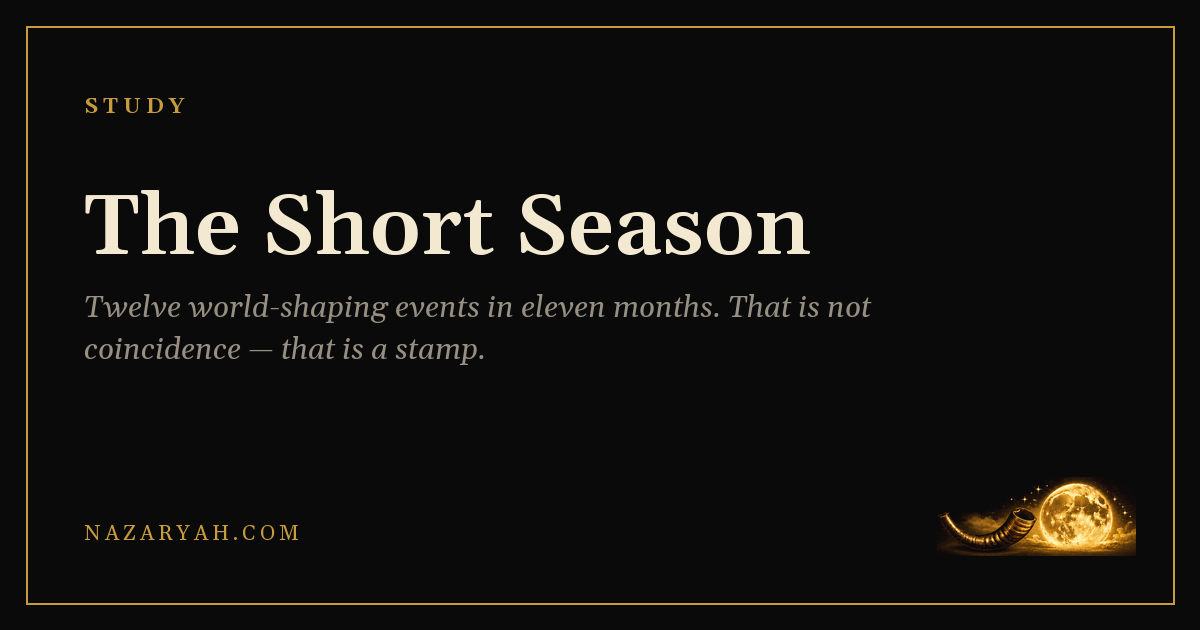
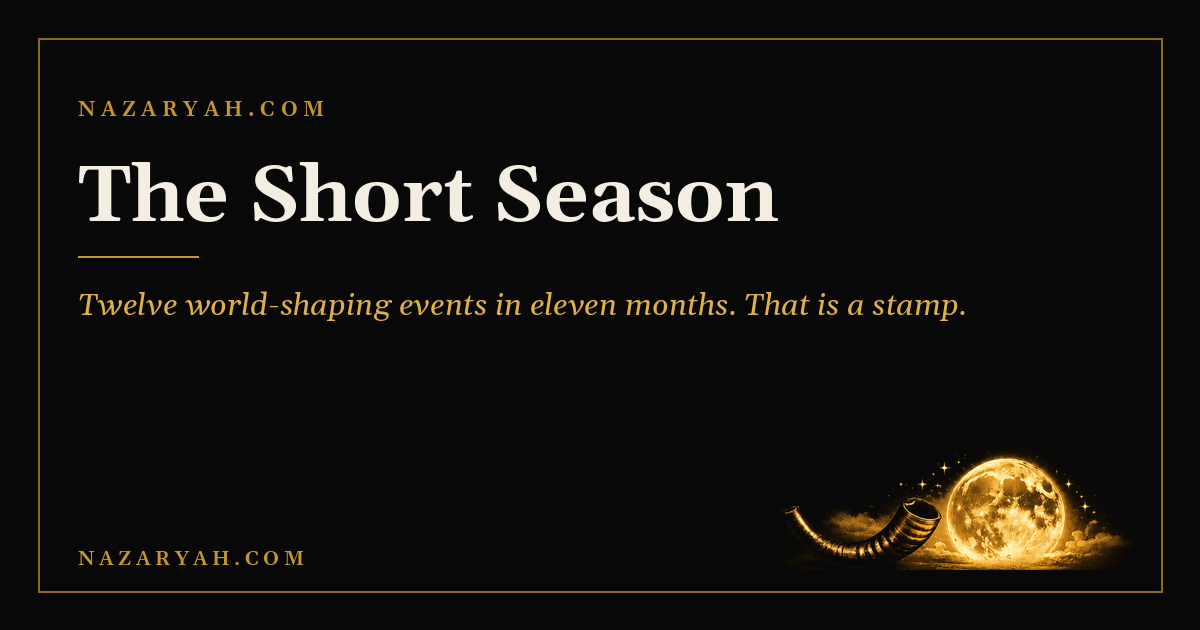
End Times Gap: share cards for all five studies; lede/opening duplication fixed in three posts

diff --git a/src/content/posts/the-short-season.md b/src/content/posts/the-short-season.md
@@ -28,9 +28,6 @@ companion: "esther-ishtar-marduk"
 ---
 
 <style>.prose ul { list-style-type: disc; }</style>
-*When the Appointed Time Came and Yahuah Released the Chain*
-
-Modern teaching holds that the binding of the enemy is still ahead of us, waiting on a kingdom that has not started. That reading needs a long blank between the cross and the chain — centuries in which nothing described in Revelation 20 has begun. The Messiah left no room for it. He said the strong man is bound first and the house is spoiled afterward, and He said it while spoiling the house. So the binding is behind us, and the brief release that follows it is behind us too. This study asks when.
 
 *What if the devil was loosed on a specific day — and what if that day landed inside a single year that the fingerprints of heaven and hell both mark?*
 
@@ -38,7 +35,7 @@ Modern teaching holds that the binding of the enemy is still ahead of us, waitin
 
 Revelation 20 tells us that HaSatan is bound for a "thousand years" and then loosed for a "little season" to deceive the nations one final time before the end. Most modern Christians read this as a future event — a literal thousand-year kingdom still to come, after which the devil gets a short release. This study takes a different position, one that fits the whole witness of Scripture better and fits the world we actually live in even more clearly.
 
-This study takes a different position. The binding already happened, the thousand years is the long age we are living in, and the loosing is behind us rather than ahead of us. The case for the binding itself is settled by the Messiah’s own order — the strong man bound first, then his house spoiled — and is set out briefly below rather than argued at length. What this study does is set one window of years on the table, show the fingerprints heaven and hell both left on it, and walk forward from there.
+The binding already happened, the thousand years is the long age we are living in, and the loosing is behind us rather than ahead of us. The case for the binding itself is settled by the Messiah’s own order — the strong man bound first, then his house spoiled — and is set out briefly below rather than argued at length. What this study does is set one window of years on the table, show the fingerprints heaven and hell both left on it, and walk forward from there.
 
 Start with the text itself. The Revelation of Yahushua to John does not give us many places where the devil's movements are described in plain terms. Chapter twenty is one of them. It is worth reading slowly.
 

diff --git a/src/content/posts/the-reign-is-now.md b/src/content/posts/the-reign-is-now.md
@@ -26,9 +26,10 @@ associations:
 ---
 
 <style>.prose ul { list-style-type: disc; }</style>
+
 Modern teaching puts the reign of the Messiah entirely in the future. The thousand years of Revelation 20 is lifted out of this present age and set down after His return, as an earthly kingdom that has not begun. That move requires a blank stretch — a span between the resurrection and the reign in which the throne stands empty and the assembly waits. Scripture describes no such stretch. This study closes that blank by walking the prophets, the Messiah, and the apostles in order, and showing that every one of them speaks of a king already seated.
 
-Ask most believers when the Messiah begins to reign and the answer comes back the same way: at the second coming. He came the first time to die, He went back to heaven, and one day He will return and take up a throne in Jerusalem. The reign is in front of us. Everything between the two comings is a waiting room.
+He came the first time to die, He went back to heaven, and one day He will return and take up a throne in Jerusalem — so the teaching runs. The reign is in front of us. Everything between the two comings is a waiting room.
 
 Scripture says otherwise, and it says so from one end to the other. The prophets announced a king who would be seated and would reign until His enemies were subdued. The Messiah Himself announced the kingdom as arrived rather than approaching. And on the first day the assembly ever preached, Peter stood in front of thousands and told them the man they had crucified was already on the throne. None of that is obscure. It is the plain reading of passages most believers can find without help.
 

diff --git a/src/content/posts/gog-and-magog.md b/src/content/posts/gog-and-magog.md
@@ -27,7 +27,6 @@ associations:
 ---
 
 <style>.prose ul { list-style-type: disc; }</style>
-Modern teaching needs Ezekiel 38 to be a war still ahead of us, fought by named modern nations, and it needs Revelation 20 to be a second war a thousand years after the first. Both requirements come from the same habit — inserting a stretch of time that the text never gives, then filling it with events. This study takes Ezekiel as he stands, and then lays his account beside John’s to see whether two wars are there at all.
 
 For about a hundred years, Ezekiel 38 and 39 have been sold as a war forecast. Russia leads a coalition down out of the north. It invades the modern State of Israel. The world ends. Maps have been drawn. Books have sold by the millions. Sermons have been preached with the evening news open on the pulpit.
 
